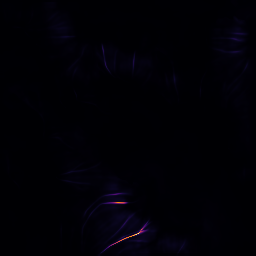
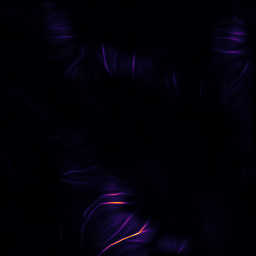
Redefine exponent in SPL law for erosion (fix formatting)

diff --git a/examples/ex_hydraulic_spl/ex_hydraulic_spl.cpp b/examples/ex_hydraulic_spl/ex_hydraulic_spl.cpp
@@ -28,8 +28,7 @@ int main(void)
                       iterations,
                       &z_bedrock,
                       &moisture_map,
-                      &erosion_map,
-		      1);
+                      &erosion_map);
 
   hmap::export_banner_png("ex_hydraulic_spl0.png",
                           {z, z1, z2},

diff --git a/HighMap/src/erosion/hydraulic_spl.cpp b/HighMap/src/erosion/hydraulic_spl.cpp
@@ -53,7 +53,7 @@ void hydraulic_spl(Array &z,
       z += -c_erosion * (*p_moisture_map) * pow(facc, 0.8f) * dz * dz;
     else
       z += -c_erosion * pow(facc, 0.8f) * dz * dz;
-    
+
     if (p_bedrock)
       z = maximum(z, *p_bedrock);
     else
